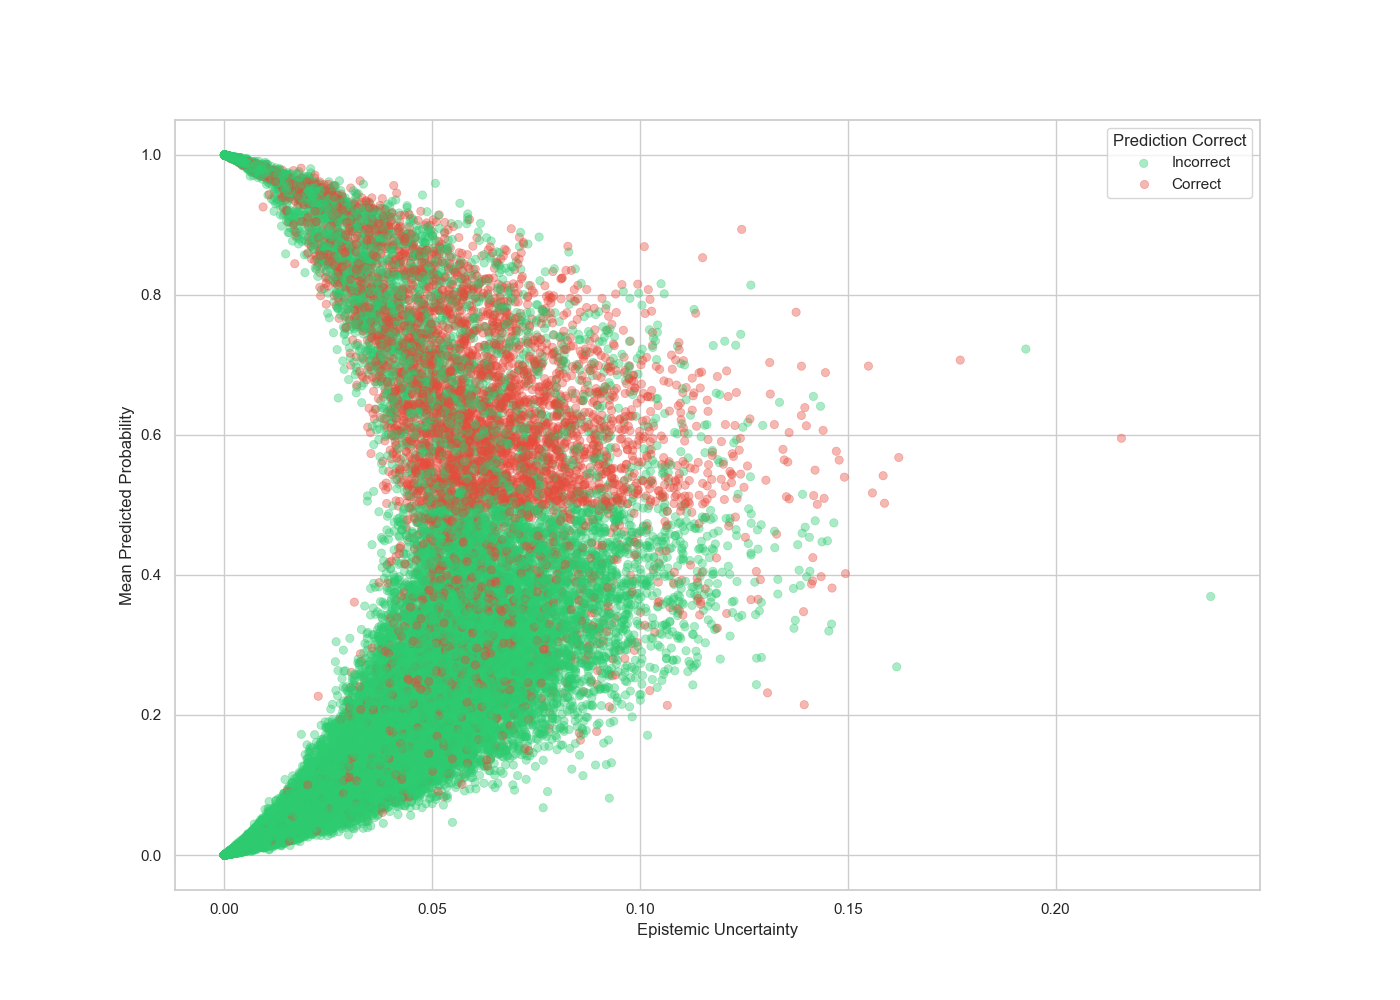
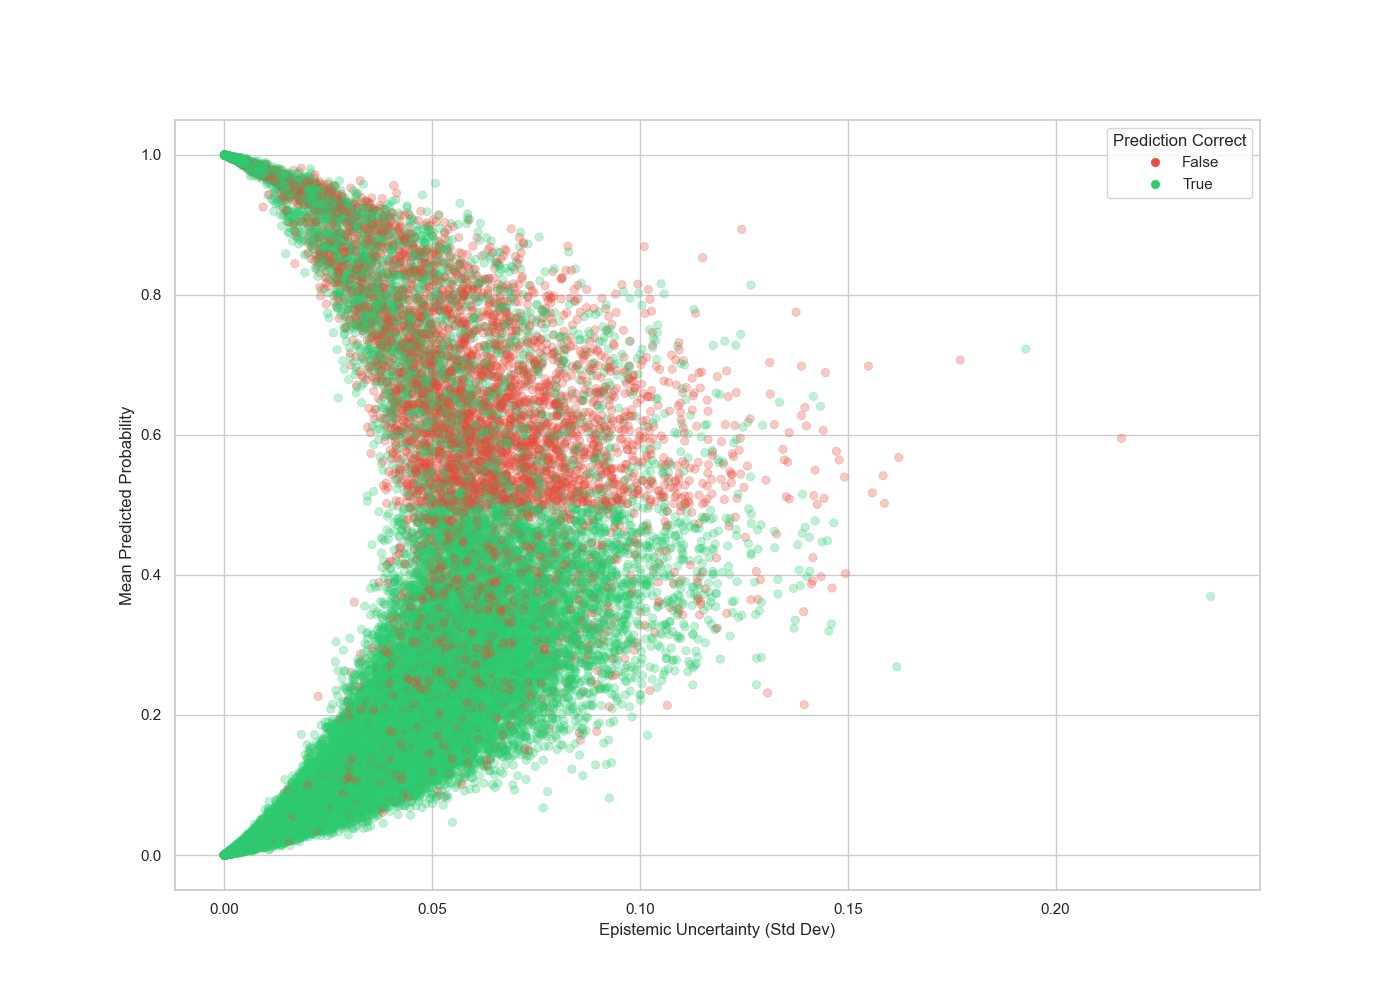
fix epistemic plot legend

diff --git a/testing.py b/testing.py
@@ -167,6 +167,7 @@ def main(
     prob_flat = mean_probs.flatten()
     unc_flat = epistemic_unc.flatten()
     labels_flat = all_labels.flatten()
+    # TODO find best threshold
     preds_flat = (prob_flat > 0.5).astype(int)
 
     is_correct = preds_flat == labels_flat
@@ -185,12 +186,14 @@ def main(
         y="Probability",
         hue="Correct",
         palette={True: "#2ecc71", False: "#e74c3c"},
-        alpha=0.4,
+        alpha=0.3,
         edgecolor=None,
     )
-    plt.xlabel("Epistemic Uncertainty")
+    plt.xlabel("Epistemic Uncertainty (Std Dev)")
     plt.ylabel("Mean Predicted Probability")
-    plt.legend(title="Prediction Correct", labels=["Incorrect", "Correct"])
+    leg = plt.legend(title="Prediction Correct")
+    for lh in leg.legend_handles:
+        lh.set_alpha(1.0)
     plt.savefig(f"{output_dir}/epistemic_unc_scatter.png")
     plt.close()
 
